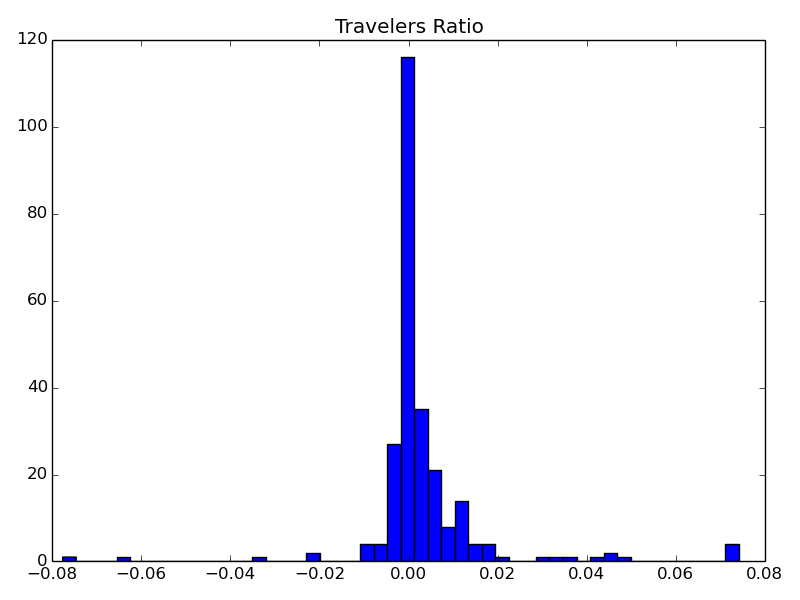
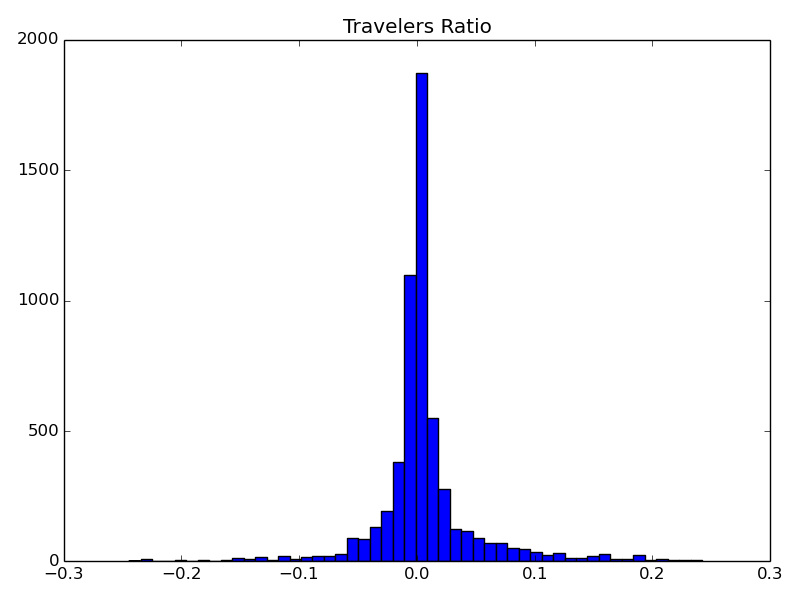
updates

Changed region(s): [[0.0312, 0.06, 0.875, 0.99], [0.9062, 0.06, 0.9688, 0.99], [0.4062, 0.03, 0.625, 0.06]]

diff --git a/src/master_writer.py b/src/master_writer.py
@@ -54,7 +54,7 @@ def run(DMSOgenes,DMSOTSS,DMSOEND,CAgenes,CATSS,CAEND,filedir,figuredir):
                 coverage = '0'
             d[gene].append(coverage)
             
-    coveragecutoff = 100
+    coveragecutoff = 20
     TRlist = list()
     TRgenes = list()
     DMSOTRgenes = list()

diff --git a/src/main.py b/src/main.py
@@ -32,8 +32,6 @@ filedir = parent_dir(homedir) + '/files'
 #Figure directory
 figuredir = parent_dir(homedir) + '/figures'
 
-#Directories to reference files
-
 
 def run():
     print "Creating annotation files..."
